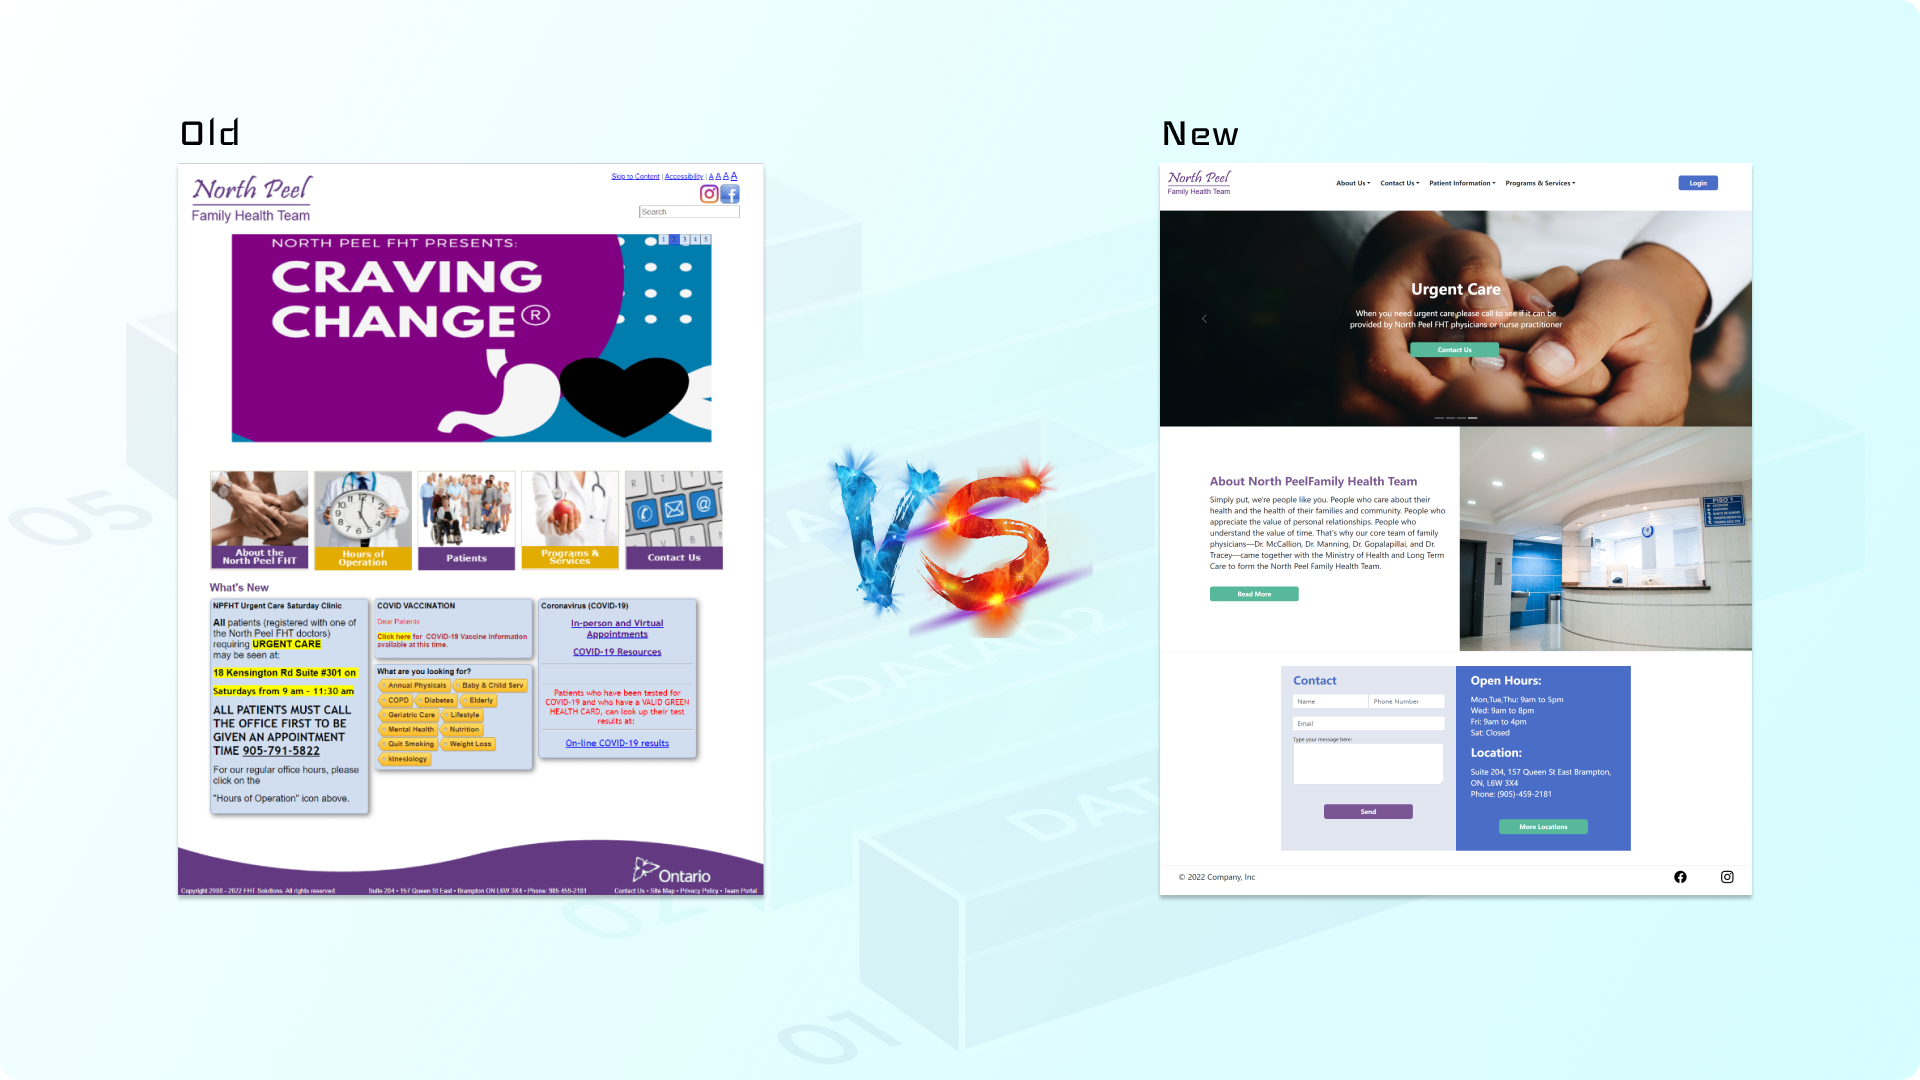
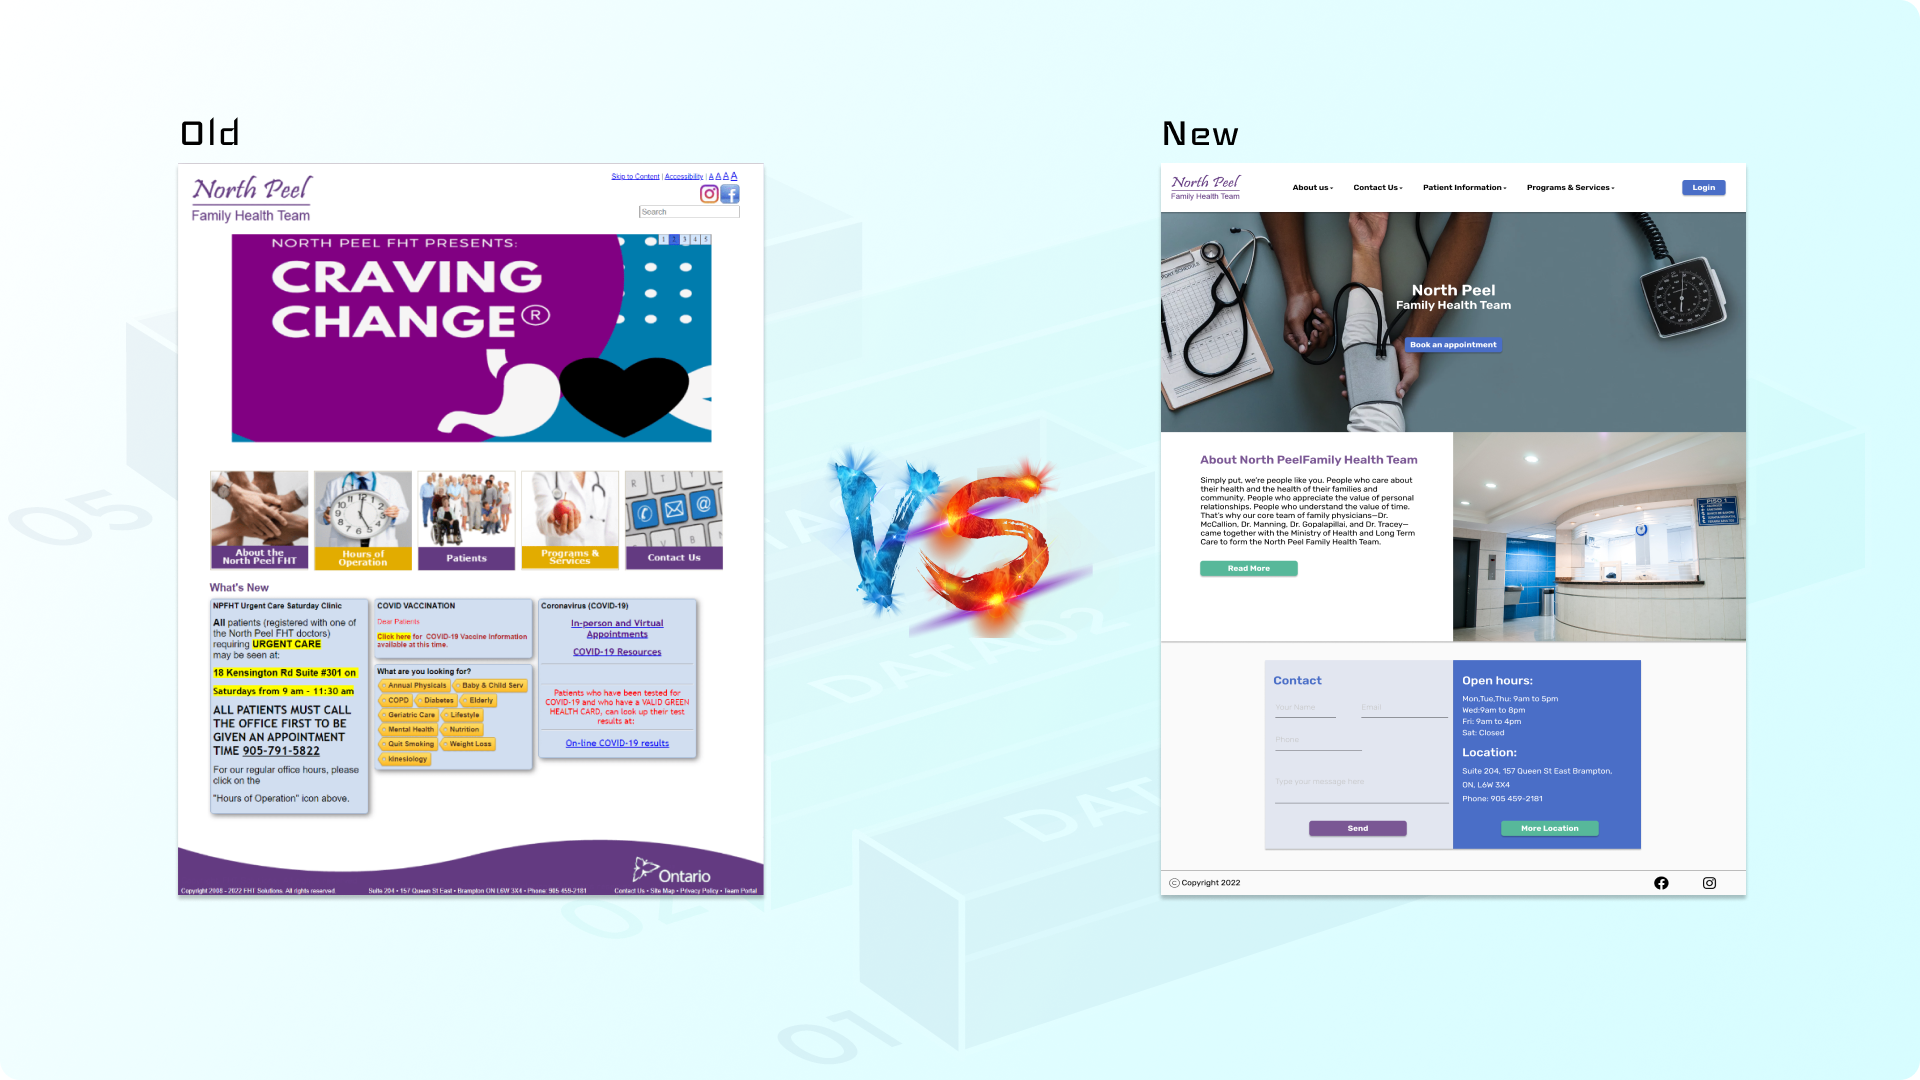
project update

Changed region(s): [[0.5938, 0.1528, 0.9375, 0.825], [0.5938, 0.7944, 0.6562, 0.825]]

diff --git a/Project1.html b/Project1.html
@@ -281,7 +281,8 @@
 
         <h2 class="subtitle">· Wireframes</h2>
 
-        <p class="text">Moving ahead, we sketched a couple of wireframes.</p>  
+        <p class="text">Moving ahead, we sketched a couple of wireframes and added serval new functions. We created a secure portal 
+          where users could use their ID and password to log in to their user dashboard. On the dashboard page, users can have access to their medical services and patient profile.</p>  
 
         <div class="wireframe_img">
 
@@ -299,8 +300,67 @@
 
       </div>
         
-    
+    </div>
 
+  </section>
+
+
+  <section id="prototype">
+
+    <div class="container">
+
+      <div class="prototype">
+
+        <h2 class="subtitle">· Prototype</h2>
+
+        <p class="text">Once we were happy with the basic concept, we started to add some fidelity to the design so that I could create a clickable prototype.</p>  
+
+        <div class="prototype_img">
+
+            <img src="img/project1/prototype.png" alt="prototype_picture">
+  
+        </div>          
+        
+        <p class="text">We tested out the prototype and received some informative feedback. One from the positive side is: "I like how the user dashboard shows all my medical and appointment information in one place." As well as a negative one: "After clicking on the 'book an appointment' button on the home screen, why am I asked to click another 'book an appointment button' after login." </p> 
+        
+        <div class="prototype_img">
+
+          <img src="img/project1/feedback.png" alt="feedback_picture">
+
+      </div>   
+
+      </div>
+        
+    </div>
+
+  </section>
+
+  <section id="iteration">
+
+    <div class="container">
+
+      <div class="iteration">
+
+        <h2 class="subtitle">· Iteration</h2>
+
+        <p class="text">After analyzing the feedback, We made serval iterations to the prototype. For example, the negative feedback mentioned above is a user flow error. To solve that, we removed the unnecessary step to create a direct connection between the login page and the appointment system.</p>  
+
+        <div class="iteration_img">
+
+            <img src="img/project1/itr.png" alt="UesrFlowIteration_picture">
+  
+        </div>          
+        
+        <p class="text">Initially, the home screen had just one hero image, but users thought it would be better to have more information. So, we added more informative hero images with call-to-action buttons to make users' navigation easy. </p> 
+        
+        <div class="iteration_img">
+
+          <img src="img/project1/itr_homescreen.png" alt="HomeScreenIteration_picture">
+
+      </div>   
+
+      </div>
+        
     </div>
 
   </section>

diff --git a/css/project1.css b/css/project1.css
@@ -517,10 +517,59 @@ img {
 #develop1 .wireframe_img{
 	margin: 20px 0;
 }
-
-
 /* End Develop1 Section */
 
+/* Prototype Section */
+#prototype{
+	max-width: 1280px;
+	margin: 0 auto;
+	padding: 0 50px;
+	background: url(../img/project1/bg2.png) no-repeat;
+	background-size: cover;
+}
+
+#prototype .container{
+	min-height: auto;
+	align-items: flex-start;
+}
+
+#prototype .subtitle{
+	margin:20px 0;
+	text-align: left;
+	color:#2EA4C5;
+}
+
+#prototype .prototype_img{
+	margin: 20px 0;
+}
+
+/* End Prototype Section */
+
+/* Iteration Section */
+
+#iteration{
+	max-width: 1280px;
+	margin: 0 auto;
+	padding: 0 50px;
+	background: url(../img/project1/bg2.png) no-repeat;
+	background-size: cover;
+}
+
+#iteration .container{
+	min-height: auto;
+	align-items: flex-start;
+}
+
+#iteration .subtitle{
+	margin:20px 0;
+	text-align: left;
+	color:#2EA4C5;
+}
+
+#iteration .iteration_img{
+	margin: 20px 0;
+}
+/* End Iteration Section */
 @media only screen and (min-width: 768px) {
 	.subtitle{
 		font-size: 2.8rem;
@@ -603,6 +652,18 @@ img {
 	}
 
 	#develop{
+		margin-bottom: 40px;
+	}
+
+	#develop1 {
+		margin-bottom: 40px;
+	}
+
+	#prototype{
+		margin-bottom: 40px;
+	}
+
+	#iteration{
 		margin-bottom: 40px;
 	}
 
@@ -763,6 +824,13 @@ img {
 		margin: 0 50px;
 	}
 
+	#prototype .prototype{
+		margin: 0 50px;
+	}
+
+	#iteration .iteration{
+		margin: 0 50px;
+	}
 
 
 }
